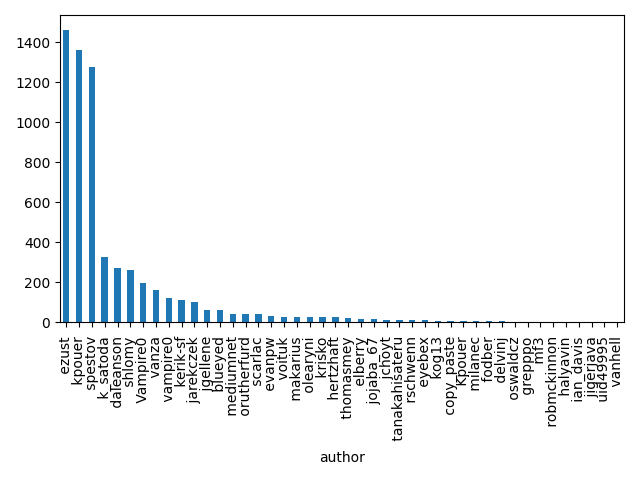
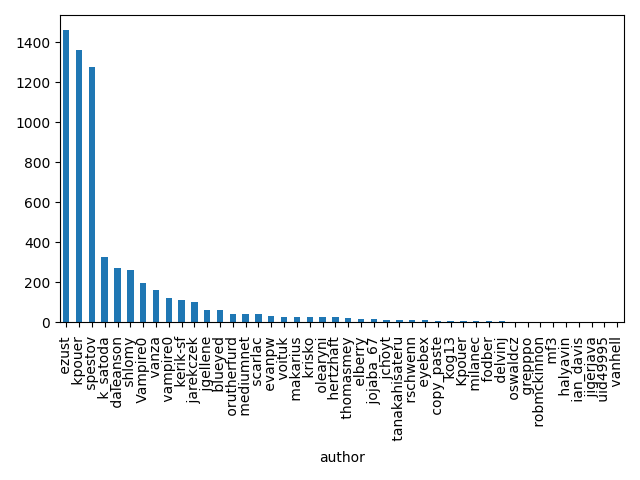
lab2 and 3

diff --git a/lab3/analysis.py b/lab3/analysis.py
@@ -1,0 +1,37 @@
+import pandas as pd
+import numpy as np
+import scipy.stats as st
+import matplotlib.pyplot as plt
+
+df = pd.read_csv("times.csv", sep=";")
+
+# Skapa en ny veriabel som är skillnaden mellan gissning och faktisk tid
+df["skillnad"] = df["Faktisk tid"] - df["Estimerad tid"] 
+
+print(df)
+
+print("sammanfattning skillnader")
+stats_summary = df.groupby('Grupp A/B')['skillnad'].agg(['mean', 'std', 'count'])
+print(stats_summary)
+
+print("T-test")
+grupp_a = df[df['Grupp A/B'] == 'A']['skillnad']
+grupp_b = df[df['Grupp A/B'] == 'B']['skillnad']
+
+
+t_stat, p_value = st.ttest_ind(grupp_a, grupp_b)
+
+# Skapa box-plot
+plt.figure(figsize=(7, 5))
+df.boxplot(column='skillnad', by='Grupp A/B')
+plt.title('Skillnad mellan faktisk och estimerad tid')
+plt.suptitle('') # Ta bort pandas standard-titel
+plt.ylabel('Minuter (Faktisk - Estimerad)')
+plt.axhline(y=0, color='r', linestyle='--') # Noll-linje (perfekt estimering)
+plt.show()
+
+# Skriv ut resultat
+print(f"Grupp A Medelfel: {grupp_a.mean():.2f} min (Standardavvikelse: {grupp_a.std():.2f})")
+print(f"Grupp B Medelfel: {grupp_b.mean():.2f} min (Standardavvikelse: {grupp_b.std():.2f})")
+print(f"T-statistik: {t_stat:.4f}")
+print(f"P-värde: {p_value:.4f}")

diff --git a/lab2/contributors.py b/lab2/contributors.py
@@ -3,7 +3,8 @@ import matplotlib.pyplot as plt
 
 def contributors(file: str, n: int):
     data = pd.read_table(file, sep="|", names=["revision", "author", "datetime", "nbr_lines"])
-    data["datetime"] = pd.to_datetime(data["datetime"].str.replace(r"\+.*", "", regex=True))
+    formatted_date = data["datetime"].str.replace(r"\+.*", "", regex=True)
+    data["datetime"] = pd.to_datetime(formatted_date)
 
     data["author"].value_counts().head(n).plot(kind='bar', x="author", y="frequency")
     plt.tight_layout()

diff --git a/lab3/confidence_interval.py b/lab3/confidence_interval.py
@@ -1,0 +1,14 @@
+import numpy as np
+import pandas as pd
+import scipy.stats as stats
+
+def confidenceInterval(data, confidence=0.95):
+  mean = np.mean(data)
+  std_err = stats.sem(data)  # Standard error of the mean
+  return stats.t.interval(confidence=confidence, df=len(data)-1, loc=mean, scale=std_err)
+
+data = pd.read_csv("times.csv", sep=";")
+
+data = pd.to_numeric(data[""])
+
+print(f"95% Confidence Interval: {confidenceInterval(data)}")

diff --git a/lab2/main.py b/lab2/main.py
@@ -6,6 +6,6 @@ from analyze_outliers import analyze_potential_outliers
 data = pd.read_csv("data.csv")
 data = remove_na(data)
 
-outliers = analyze_potential_outliers(data=data, threshold=[1, 2, 3])
-
+outliers = analyze_potential_outliers(data=data, threshold=[5, 5, 0])
 print(outliers)
+
